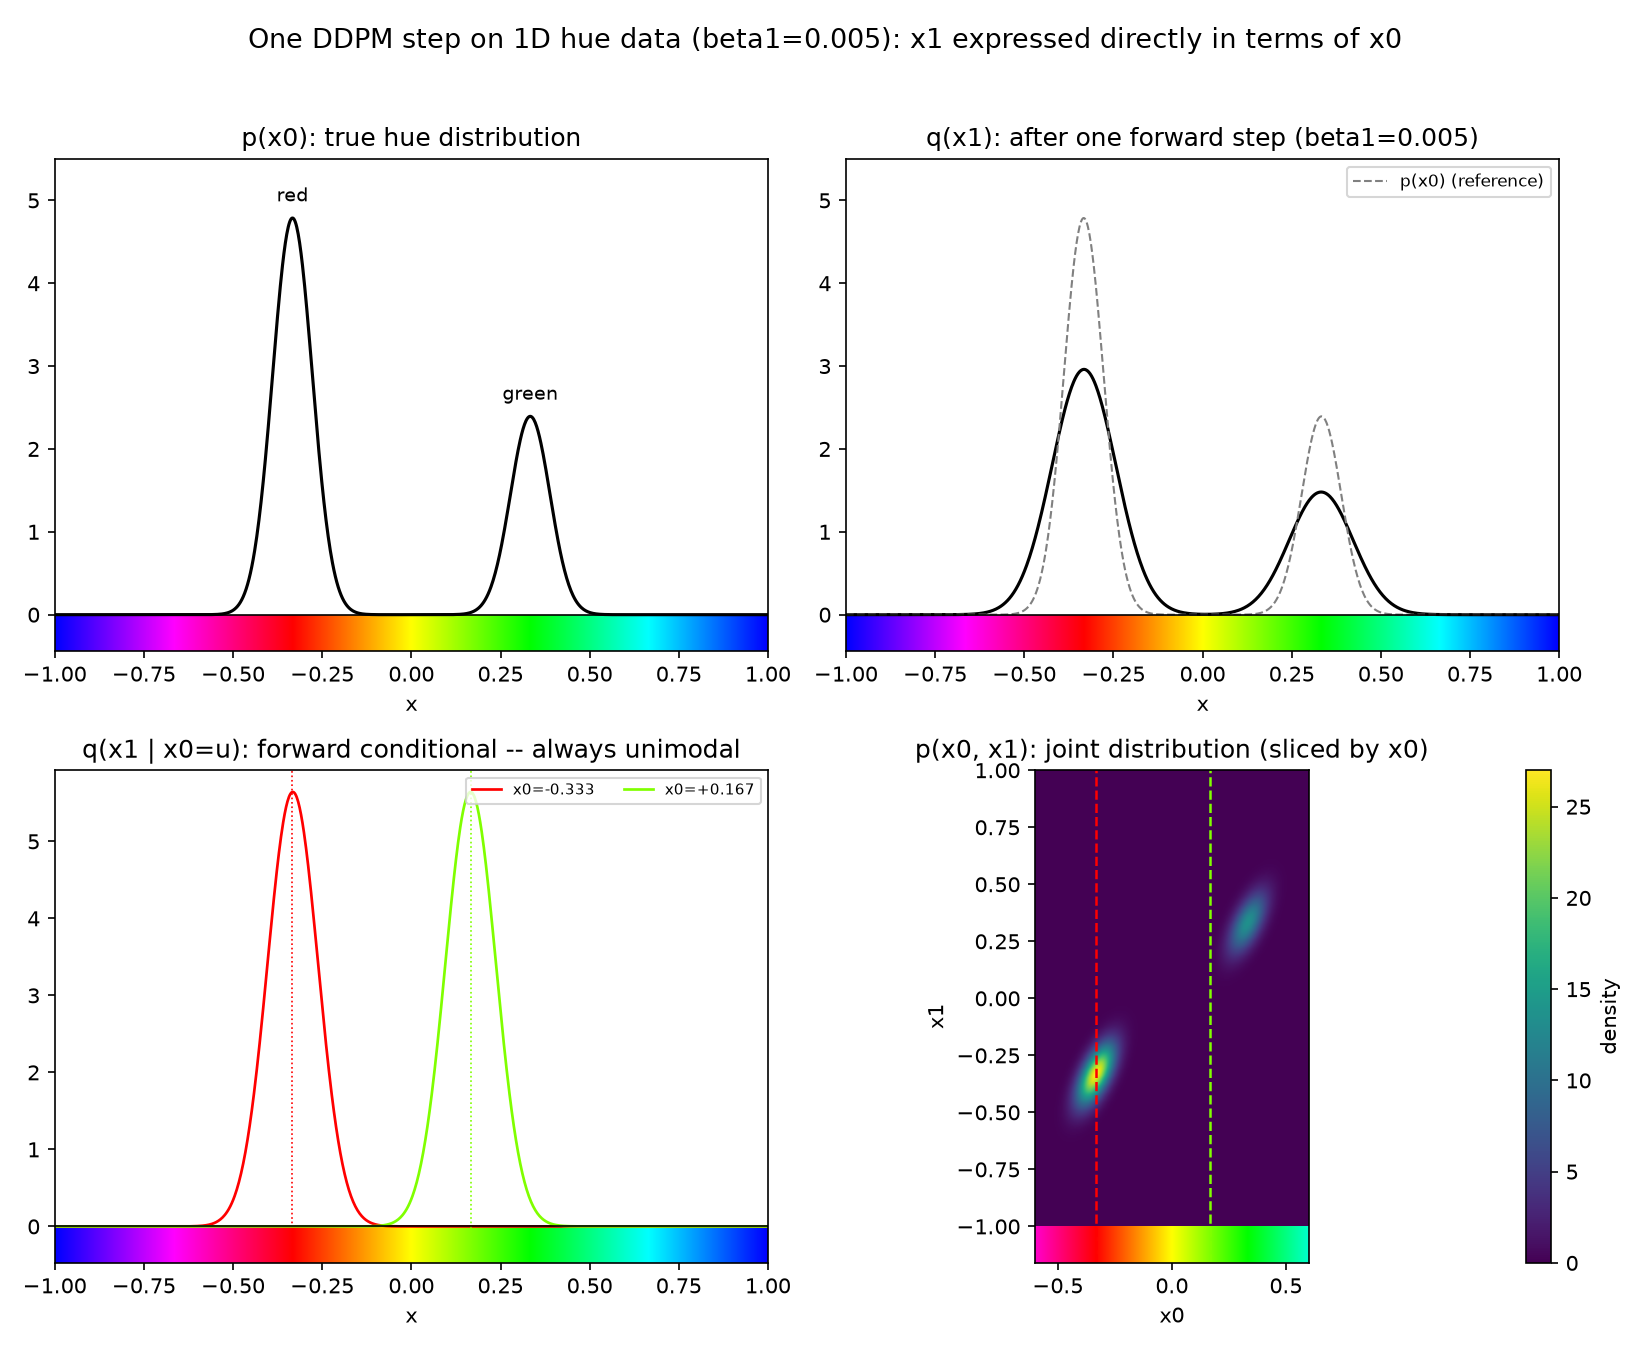
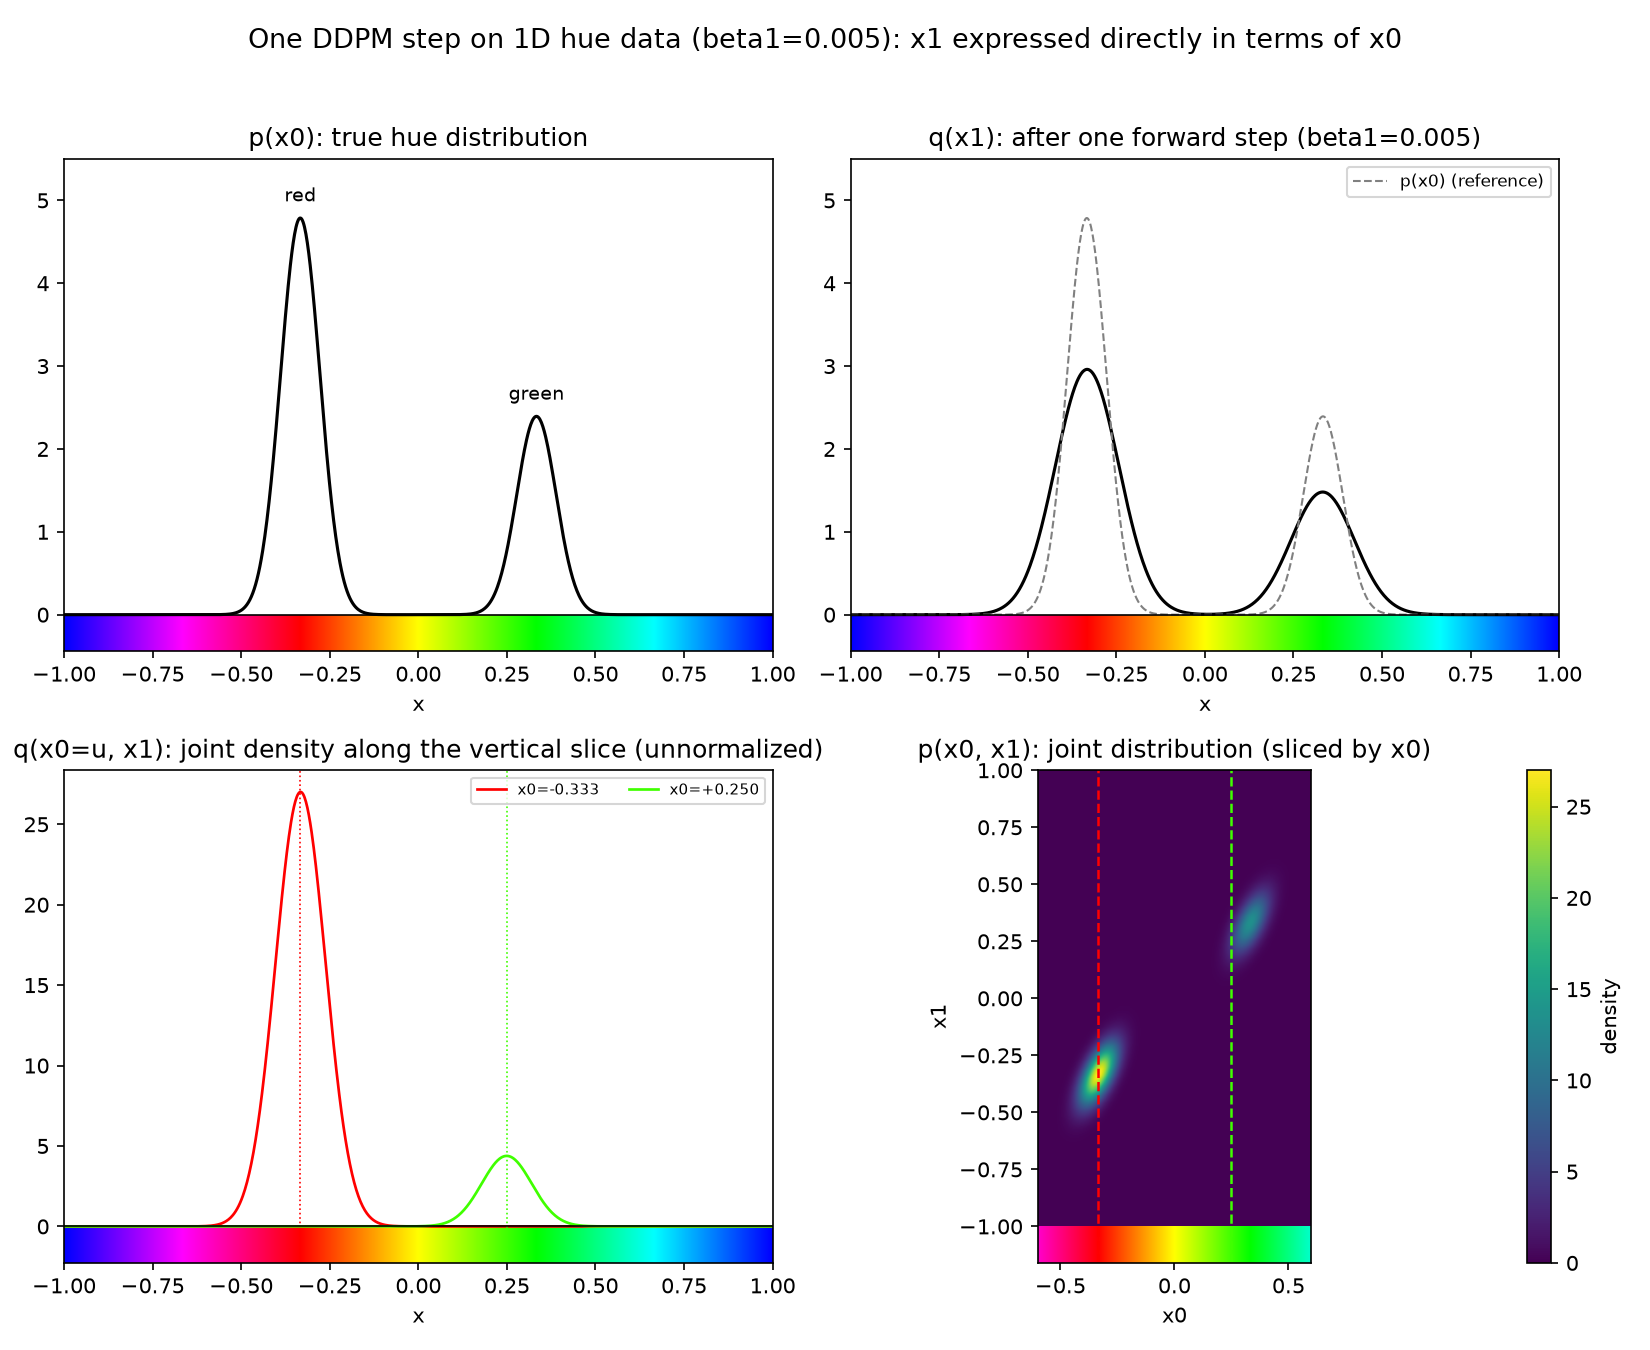
Show unnormalized joint slice q(x0=u, x1) instead of the forward conditional
Panel 4 of step0_x1_given_x0 now plots p(x0=u) * q(x1|x0=u) directly
rather than renormalizing it into a conditional density, so the curve's
height reflects p(x0=u) too -- matching the panel 3 heatmap's raw slice
exactly instead of a renormalized shape. Moved the green example point
from x0=1/6 to x0=0.25 (closer to green's mode) so its curve doesn't
disappear next to red's much taller, sharper peak.

diff --git a/step0_x1_given_x0.py b/step0_x1_given_x0.py
@@ -2,18 +2,16 @@
 q(x1)), but the bottom panels now describe x1 directly in terms of x0
 instead of inverting via Bayes' rule.
 
-Panel 4 plots the same joint distribution p(x0, x1), but sliced the other
-way: a VERTICAL slice at fixed x0=u, once renormalized, is exactly the
-forward conditional q(x1 | x0=u) shown in panel 3 for that u (mirroring
-how a horizontal slice in step0_forward_backward.py's panel 3 is exactly
-its reverse posterior q(x0 | x1=v)).
-
-Unlike the reverse posterior -- which can be genuinely bimodal at
-ambiguous v, since several x0 could plausibly have produced it -- the
-forward conditional q(x1 | x0=u) is *always* a single Gaussian, for every
-choice of u. That contrast is the whole reason a single forward step is
-trivial to write down directly while the reverse step needs Bayes' rule
-(or, for real data, a learned approximation) at all.
+Panel 3 plots the joint distribution p(x0, x1), sliced VERTICALLY at fixed
+x0=u (dashed lines). Panel 4 plots that same vertical slice directly, as a
+curve over x1 -- q(x0=u, x1) = p(x0=u) * q(x1 | x0=u), the raw joint
+density along the slice, left unnormalized rather than divided down into a
+proper conditional density in x1. Dividing panel 4's curves by p(x0=u)
+would recover the forward conditional q(x1 | x0=u) (still a single
+Gaussian for every choice of u, unlike the reverse posterior's genuine
+bimodality at ambiguous points -- mirroring how a horizontal slice in
+step0_forward_backward.py's panel 3 becomes its reverse posterior panel 4
+once renormalized).
 
 main() takes beta1 as a parameter (default matches step0_forward_backward.py)
 so the same figure can be regenerated at other noise levels.
@@ -79,7 +77,7 @@ def main(beta1=BETA1, out_path=None):
     ax.legend(fontsize=8, loc="upper right")
 
     # --- example x0 values used by panels 3 and 4 ---
-    example_us = [-1 / 3, 1 / 6]
+    example_us = [-1 / 3, 0.25]
     example_colors = [x_to_rgb(u) for u in example_us]
 
     # --- panel 3: joint distribution p(x0, x1), sliced vertically (by x0) ---
@@ -105,15 +103,15 @@ def main(beta1=BETA1, out_path=None):
     ax.set_xlabel("x0")
     ax.set_ylabel("x1")
 
-    # --- panel 4: forward conditional q(x1 | x0=u) for several u ---
+    # --- panel 4: joint density along the vertical slice x0=u, q(x0=u, x1) ---
     ax = axes[1, 0]
     ymax4 = 0.0
     for u, color in zip(example_us, example_colors):
-        cond = normal_pdf(x_grid, np.sqrt(a1) * u, np.sqrt(beta1))
-        ymax4 = max(ymax4, cond.max())
-        ax.plot(x_grid, cond, color=color, linewidth=1.3, label=f"x0={u:+.3f}")
+        slice_ = joint_pdf(u, x_grid, beta1)
+        ymax4 = max(ymax4, slice_.max())
+        ax.plot(x_grid, slice_, color=color, linewidth=1.3, label=f"x0={u:+.3f}")
         ax.axvline(u, color=color, linewidth=0.8, linestyle=":")
-    setup_axis(ax, "q(x1 | x0=u): forward conditional -- always unimodal", 1.05 * ymax4, plot_range)
+    setup_axis(ax, "q(x0=u, x1): joint density along the vertical slice (unnormalized)", 1.05 * ymax4, plot_range)
     ax.legend(fontsize=7, loc="upper right", ncol=2)
 
     fig.suptitle(f"One DDPM step on 1D hue data (beta1={beta1:g}): x1 expressed directly in terms of x0",

diff --git a/CLAUDE.md b/CLAUDE.md
@@ -57,12 +57,18 @@ Simplifying to two modes removes that confound from the rest of the demo.
 - **`step0_x1_given_x0.py`** — same top two panels as
   `step0_forward_backward.py`, but the bottom panels are mirrored: the
   joint distribution `p(x0,x1)` is sliced *vertically* (by x0 instead of
-  x1), and panel 4 shows the forward conditional `q(x1|x0=u)` for the same
-  example points instead of the reverse posterior. Makes the contrast
-  concrete: `q(x1|x0=u)` is always a single Gaussian, for every choice of
+  x1), and panel 4 plots that same vertical slice directly as a curve over
+  x1, `q(x0=u, x1) = p(x0=u) * q(x1|x0=u)` — the raw joint density along
+  the slice, left unnormalized rather than divided down into a proper
+  conditional density (dividing by `p(x0=u)` would recover the forward
+  conditional `q(x1|x0=u)`, always a single Gaussian for every choice of
   u, unlike the reverse posterior's genuine bimodality at ambiguous
   points — which is exactly why the forward step needs no Bayes' rule
-  (or learned approximation) while the reverse step does.
+  (or learned approximation) while the reverse step does). Because the
+  slice is left unnormalized, its peak height also reflects `p(x0=u)`
+  itself, so example points at less-likely x0 values produce a visibly
+  smaller curve even though their normalized conditional would look the
+  same width.
 - **`beta1_sweep.py`** — how beta1 controls the reverse posterior's shape:
   interpolates from a near-delta spike (beta1->0) to the full prior
   `p(x0)` (beta1->1), with posterior std and responsibility entropy
